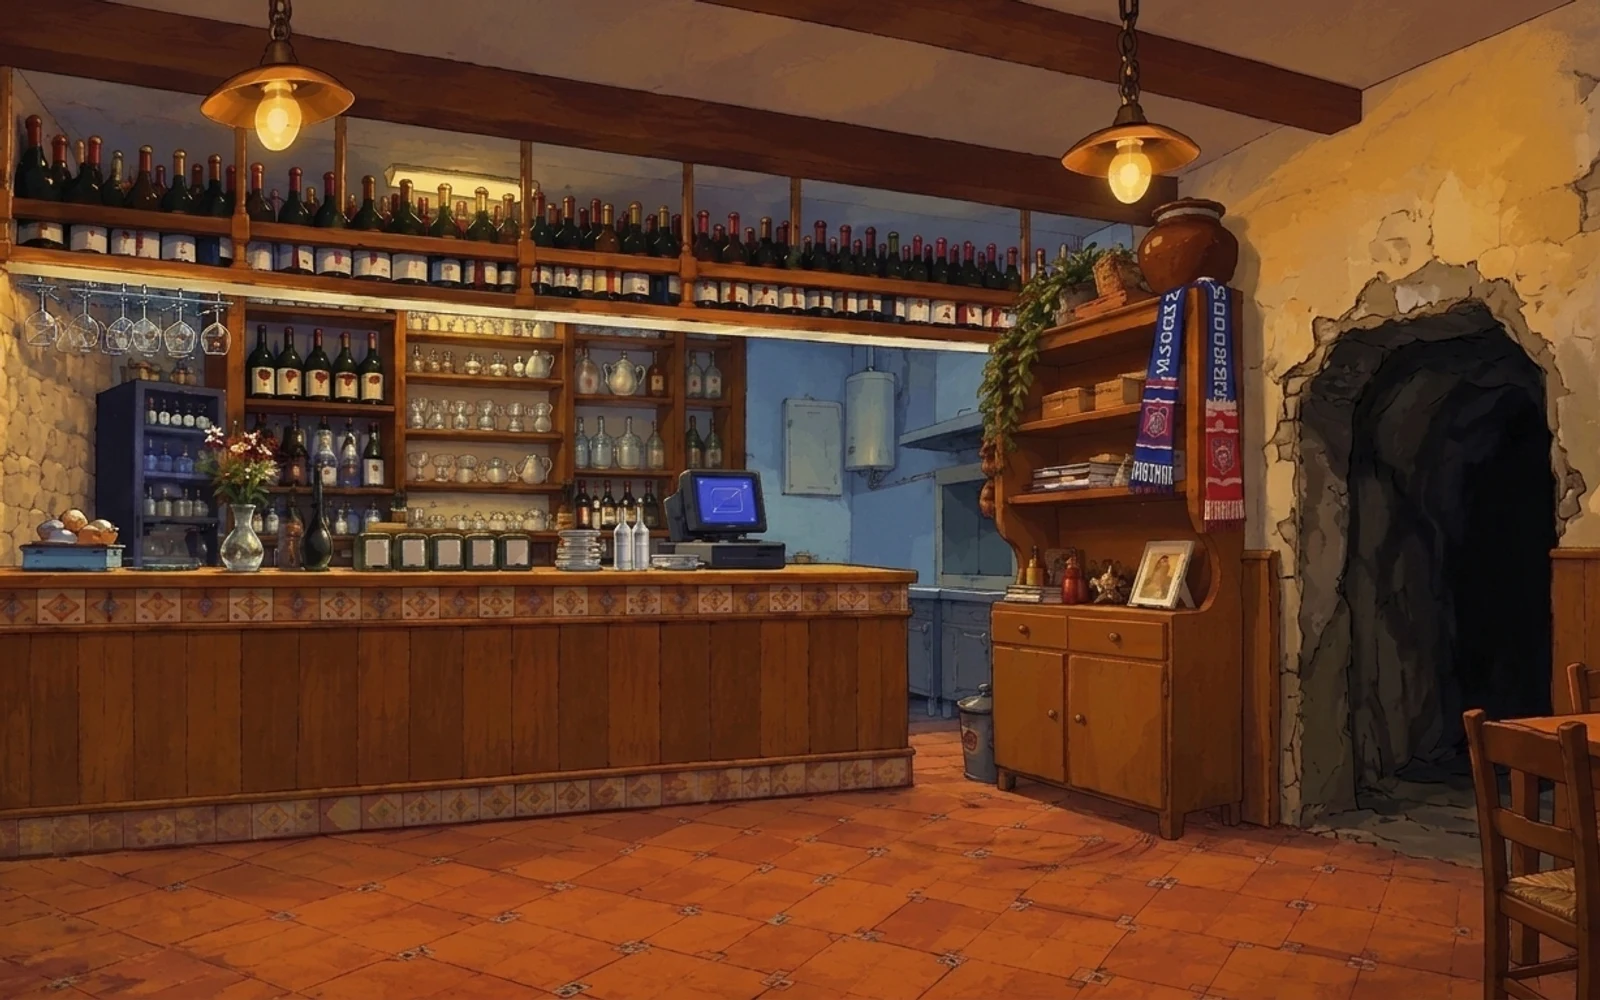
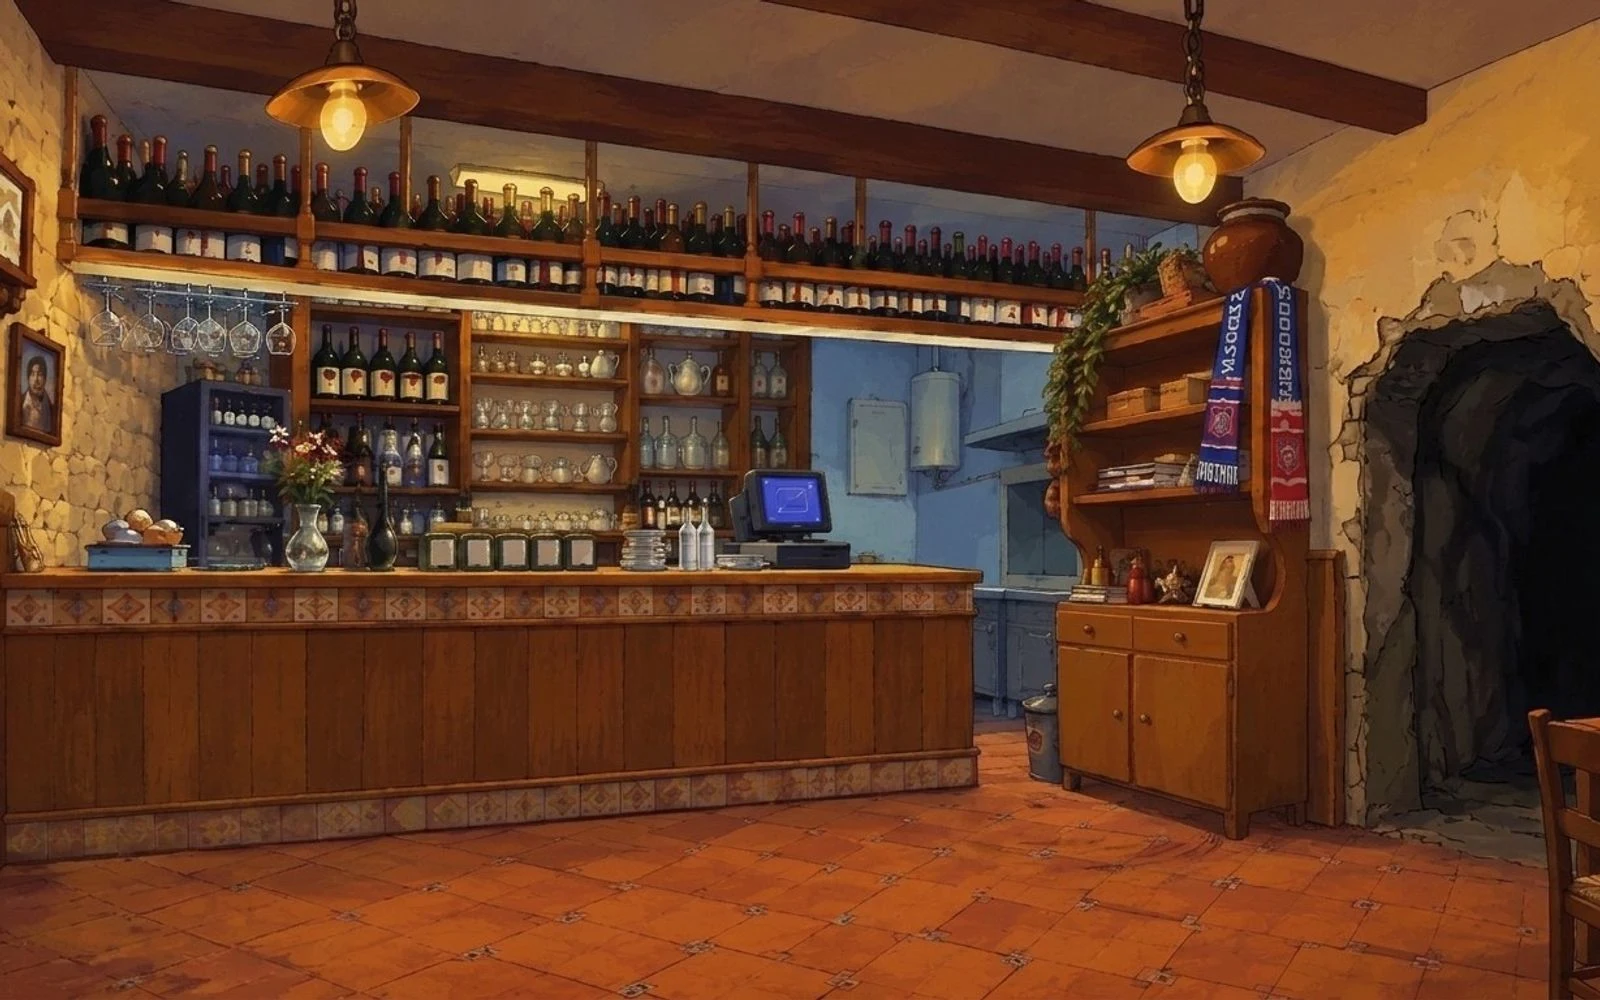
v17: Ajustes arreglado en la portada, Intaclub en grande, Bar Estrella nuevo y la señora con la mano entera

diff --git a/js/scenes.js b/js/scenes.js
@@ -169,23 +169,20 @@ SCENES.estrella = {
   pos: { ramis: [300, 990], marc: [515, 995], marcos: [725, 992], angel: [935, 995] },
   npcs: [{ id: 'senora', x: 1165, y: 990, flip: true, cond: () => !flag('senoraFuera') || flag('senoraVuelta') }],
   props: [
-    { img: 'sal', x: 150, y: 720, h: 70, cond: () => !TUNEL() && !has('sal') && !flag('salCogida'), hs: { name: 'Salero', verbs: { 'Coger': () => cogerSal() } } },
-    { img: 'sal', x: 165, y: 572, h: 62, cond: () => TUNEL() && !has('sal') && !flag('salCogida'), hs: { name: 'Salero', verbs: { 'Coger': () => cogerSal() } } },
-    { img: 'postres', x: 120, y: 712, h: 120, cond: () => !TUNEL() && flag('senoraVuelta') && !flag('postresComidos') },
-    { img: 'postres', x: 850, y: 577, h: 112, cond: () => TUNEL() && flag('senoraVuelta') && !flag('postresComidos') },
+    // v17: el bar ya no tiene la mesa delante; el salero y los postres, en la barra
+    { img: 'sal', x: 235, y: 570, h: 62, cond: () => !has('sal') && !flag('salCogida'), hs: { name: 'Salero', verbs: { 'Coger': () => cogerSal() } } },
+    { img: 'postres', x: 140, y: 575, h: 112, cond: () => flag('senoraVuelta') && !flag('postresComidos') },
   ],
   fx: [
-    { type: 'glow', x: 353, y: 125, r: 260, color: '#ffc26a', a: 0.32, flicker: 0.15, cond: () => !TUNEL() },
-    { type: 'glow', x: 1200, y: 168, r: 240, color: '#ffc26a', a: 0.3, flicker: 0.15, seed: 2, cond: () => !TUNEL() },
-    { type: 'glow', x: 277, y: 118, r: 250, color: '#ffc26a', a: 0.32, flicker: 0.15, cond: TUNEL },
-    { type: 'glow', x: 1130, y: 168, r: 230, color: '#ffc26a', a: 0.3, flicker: 0.15, seed: 2, cond: TUNEL },
-    { type: 'glow', x: 1440, y: 580, r: 280, color: '#6f8cff', a: 0.08, flicker: 0.3, seed: 5, cond: TUNEL },
+    { type: 'glow', x: 344, y: 115, r: 250, color: '#ffc26a', a: 0.32, flicker: 0.15 },
+    { type: 'glow', x: 1180, y: 160, r: 230, color: '#ffc26a', a: 0.3, flicker: 0.15, seed: 2 },
+    { type: 'glow', x: 1470, y: 590, r: 260, color: '#6f8cff', a: 0.08, flicker: 0.3, seed: 5, cond: TUNEL },
     { type: 'glow', x: 520, y: 330, r: 420, color: '#ff9a4a', a: 0.08 },
   ],
   emit: [{ kind: 'dust', rate: 3, x0: 150, x1: 1400, y0: 120, y1: 600, pre: 20 }],
   hs: [
-    { name: 'Mesa', get r() { return TUNEL() ? [1460, 700, 140, 300] : [0, 690, 260, 310]; }, verbs: { 'Mirar': () => say(S.active, 'Restos de una cena épica. En la servilleta, Marc ha dibujado a la señora estilo Manara. Con bastante menos ropa.') } },
-    { name: 'Barra', get r() { return TUNEL() ? [0, 565, 915, 290] : [20, 560, 950, 240]; }, verbs: {
+    { name: 'Mesa', get r() { return TUNEL() ? [1510, 690, 90, 310] : [1440, 660, 160, 340]; }, verbs: { 'Mirar': () => say(S.active, 'Restos de una cena épica. En la servilleta, Marc ha dibujado a la señora estilo Manara. Con bastante menos ropa.') } },
+    { name: 'Barra', r: [0, 560, 975, 290], verbs: {
       'Mirar': () => say(S.active, flag('senoraFuera') && !flag('senoraVuelta') ? 'La barra del Estrella, sola, para nosotros. Qué responsabilidad.' : 'Una barra de madera con azulejos. Aquí se han cerrado más tratos que en el Concello.'),
       'Usar|Servirse una caña': async () => {
         if (!flag('senoraFuera') || flag('senoraVuelta')) return say(S.active, 'Con la señora delante, ni se me ocurre tocar su grifo.');
@@ -194,16 +191,16 @@ SCENES.estrella = {
         await say(S.active, 'Mejor que lo haga Ramis, que es el experto en grifos.');
       },
     } },
-    { name: 'Botellas', get r() { return TUNEL() ? [10, 110, 1020, 220] : [90, 130, 1090, 200]; }, verbs: { 'Mirar': () => say(S.active, pick(['Más botellas que en el Galactic.', 'Albariño, Ribeiro, licor café, de hierbas… Esto es un museo.'])) } },
-    { name: 'Caja registradora', get r() { return TUNEL() ? [665, 462, 120, 100] : [735, 465, 125, 110]; }, verbs: { 'Mirar': () => say(S.active, S.active === 'marcos' ? 'Intento instalarle el Doom al TPV. No arranca. Qué decepción.' : 'La caja. Marc: «Ni la mires, que nos conocemos».') } },
-    { name: 'Cocina', get r() { return TUNEL() ? [790, 340, 200, 225] : [975, 340, 200, 320]; }, verbs: { 'Mirar': () => say(S.active, 'La cocina. De ahí salen la tortilla y el pulpo. Huele a gloria bendita.') } },
-    { name: 'Bufanda', get r() { return TUNEL() ? [1125, 280, 125, 250] : [1408, 240, 125, 280]; }, verbs: { 'Mirar': () => say(S.active, 'Una bufanda de fútbol. Ramis dice que es del Pontevedra. Marc dice que no. Llevan diez minutos discutiendo.') } },
-    { name: 'Retrato', r: [20, 320, 62, 125], cond: () => !TUNEL(), verbs: { 'Mirar': () => say(S.active, 'Un retrato antiguo. El señor tiene cara de haber cerrado este bar en 1950.') } },
-    { name: 'Túnel', r: [1285, 290, 300, 545], cond: TUNEL, verbs: {
+    { name: 'Botellas', r: [60, 110, 1130, 200], verbs: { 'Mirar': () => say(S.active, pick(['Más botellas que en el Galactic.', 'Albariño, Ribeiro, licor café, de hierbas… Esto es un museo.'])) } },
+    { name: 'Caja registradora', r: [720, 462, 110, 100], verbs: { 'Mirar': () => say(S.active, S.active === 'marcos' ? 'Intento instalarle el Doom al TPV. No arranca. Qué decepción.' : 'La caja. Marc: «Ni la mires, que nos conocemos».') } },
+    { name: 'Cocina', get r() { return TUNEL() ? [840, 330, 190, 320] : [840, 330, 330, 320]; }, verbs: { 'Mirar': () => say(S.active, 'La cocina. De ahí salen la tortilla y el pulpo. Huele a gloria bendita.') } },
+    { name: 'Bufanda', get r() { return TUNEL() ? [1180, 270, 125, 260] : [1400, 240, 140, 280]; }, verbs: { 'Mirar': () => say(S.active, 'Una bufanda de fútbol. Ramis dice que es del Pontevedra. Marc dice que no. Llevan diez minutos discutiendo.') } },
+    { name: 'Retrato', r: [5, 315, 60, 130], verbs: { 'Mirar': () => say(S.active, 'Un retrato antiguo. El señor tiene cara de haber cerrado este bar en 1950.') } },
+    { name: 'Túnel', r: [1335, 300, 265, 535], cond: TUNEL, verbs: {
       'Mirar': () => say(S.active, S.active === 'angel' ? 'De ahí sale el aire frío. Y algo más… La señora dice que llega hasta Santo Domingo.' : pick(['Un agujero en la pared y un túnel de roca. Esto no sale en TripAdvisor.', 'Huele a humedad, a vino viejo y a aventura.'])),
       'Bajar': () => bajarBodega(),
     } },
-    { name: 'Aparador', get r() { return TUNEL() ? [990, 250, 260, 590] : [1255, 215, 275, 640]; }, verbs: {
+    { name: 'Aparador', get r() { return TUNEL() ? [1035, 240, 245, 600] : [1255, 150, 265, 690]; }, verbs: {
       'Mirar': async () => {
         if (flag('bodegaAbierta')) return say(S.active, pick(['El aparador, apartado. Ni un plato roto: Ángel tiene manos de músico.', 'El aparador, corrido a un lado. Y al lado, ese agujero que baja a la bodega secreta.']));
         if (!flag('senoraFuera')) return say(S.active, 'Un aparador lleno de platos. La señora no le quita ojo.');

diff --git a/js/main.js b/js/main.js
@@ -1,6 +1,6 @@
 'use strict';
 /* Arranque: carga, portada, menú y partida */
-const VERSION = 'v16';
+const VERSION = 'v17';
 const FINAL_SCENES = ['control', 'camino', 'balneario', 'piscina'];
 
 function titleMode() {
@@ -65,7 +65,7 @@ function bindMenus() {
   $('tCap').onclick = (e) => { e.stopPropagation(); CAPI.abrir(); };
   $('tExit').onclick = (e) => { e.stopPropagation(); CAPI.salir(); };
   $('mAjustes').onclick = (e) => { e.stopPropagation(); sfx('open'); AJUSTES.vista($('menu').querySelector('.mbox'), () => { bindMenus(); updSoundBtn(); }); };
-  $('tAjustes').onclick = (e) => { e.stopPropagation(); try { AUDIO.init(); } catch (er) {} sfx('open'); $('menu').classList.remove('hidden'); AJUSTES.vista($('menu').querySelector('.mbox'), () => { bindMenus(); updSoundBtn(); $('menu').classList.add('hidden'); }); };
+  $('tAjustes').onclick = (e) => { e.stopPropagation(); try { AUDIO.init(); } catch (er) {} sfx('open'); $('title').classList.add('hidden'); $('menu').classList.remove('hidden'); AJUSTES.vista($('menu').querySelector('.mbox'), () => { bindMenus(); updSoundBtn(); $('menu').classList.add('hidden'); $('title').classList.remove('hidden'); }); };   // v17: la portada tapaba los clics
   $('mExit').onclick = (e) => { e.stopPropagation(); $('menu').classList.add('hidden'); CAPI.salir(); };
   $('mAdult').onclick = (e) => { e.stopPropagation(); sfx('click'); CAPI.cambiaAdulto(); updSoundBtn(); };
   $('tScore').onclick = async (e) => { e.stopPropagation(); try { AUDIO.init(); } catch (er) {} sfx('click'); $('title').classList.add('hidden'); await verMarcador(-1, 'Cerrar'); $('title').classList.remove('hidden'); };

diff --git a/index.html b/index.html
@@ -53,7 +53,7 @@
       <h3>Menú</h3>
       <button id="mSound" class="gold">Sonido: Sí</button>
       <button id="mAjustes" class="gold">⚙ Ajustes</button>
-      <button id="mGaleria" class="gold">📸 Fotos y logros</button>
+      <button id="mGaleria" class="gold">📸 Intaclub</button>
       <button id="mHelp" class="gold">Cómo se juega</button>
       <button id="mAdult" class="gold hidden">🔞 Modo 18+: No</button>
       <button id="mTitle" class="gold">Volver a la portada</button>
@@ -68,11 +68,11 @@
         <button id="tNew" class="gold big">Nueva partida</button>
         <button id="tCont" class="gold big hidden">Continuar</button>
         <button id="tCap" class="gold big">Capítulos</button>
-        <button id="tScore" class="gold big">Marcador</button>
+        <button id="tGaleria" class="gold big">Intaclub</button>
       </div>
       <button id="tExit" class="gold">⏻ Salir</button>
       <button id="tAjustes" class="gold">⚙ Ajustes</button>
-      <button id="tGaleria" class="gold">📸 Pontegram</button>
+      <button id="tScore" class="gold">🏆 Marcador</button>
       <div id="tver"></div>
       <div id="tfoot">Una noche en Pontevedra · Para mayores de 18 · Activa el sonido</div>
     </div>

diff --git a/js/galeria.js b/js/galeria.js
@@ -1,6 +1,6 @@
 'use strict';
 /* =====================================================================
-   v16 · «Pontegram»: la galería de logros y fotos, como el perfil de una
+   v16 · «Intaclub» (antes Pontegram): la galería de logros y fotos, como el perfil de una
    red social dentro de un móvil. Cada logro es una publicación (con su
    foto de la noche si la tiene), con likes, corazones y comentarios de
    la gente del juego. Los logros se guardan entre partidas.
@@ -108,7 +108,7 @@ const GALERIA = (() => {
     const segu = 1714 + got.length * 137 + Object.keys(st.likes).length;
     root.innerHTML = `<div class="pg-phone">
       <div class="pg-status"><span>03:14</span><span>📶 🔋 14%</span></div>
-      <div class="pg-top"><b class="pg-logo">Pontegram</b><span class="pg-icons">♡ &nbsp;✉</span></div>
+      <div class="pg-top"><b class="pg-logo">Intaclub</b><span class="pg-icons">♡ &nbsp;✉</span></div>
       <div class="pg-scroll">
         <div class="pg-head">
           <div class="pg-av">${['ramis', 'marc', 'marcos', 'angel'].map((p) => `<img src="img/faces/${p}_risa.webp" alt="">`).join('')}</div>

diff --git a/css/style.css b/css/style.css
@@ -239,7 +239,7 @@ body.small #bagdesc{font-size:30px}
 #tver{position:absolute;right:22px;bottom:16px;font-family:'Cinzel',serif;font-weight:800;font-size:22px;color:#e9dfc4;opacity:.8;text-shadow:0 2px 8px #000}
 
 /* v16 · Pontegram */
-#tGaleria{position:absolute;left:340px;bottom:16px;font-size:20px;padding:10px 20px}
+#tScore{position:absolute;left:340px;bottom:16px;font-size:20px;padding:10px 20px}
 #pgram{position:absolute;inset:0;z-index:40;background:rgba(0,0,0,.78);display:flex;align-items:center;justify-content:center;font-family:'Nunito',sans-serif}
 .pg-phone{position:relative;width:600px;height:960px;border-radius:56px;border:14px solid #15151b;background:#000;color:#f5f5f5;overflow:hidden;box-shadow:0 0 0 3px #3a3a46,0 30px 80px rgba(0,0,0,.8)}
 .pg-x{position:absolute;right:calc(50% - 380px);top:30px;width:70px;height:70px;border-radius:50%;background:var(--panel);border:3px solid var(--gold);color:var(--gold2);font-size:34px;cursor:pointer}
